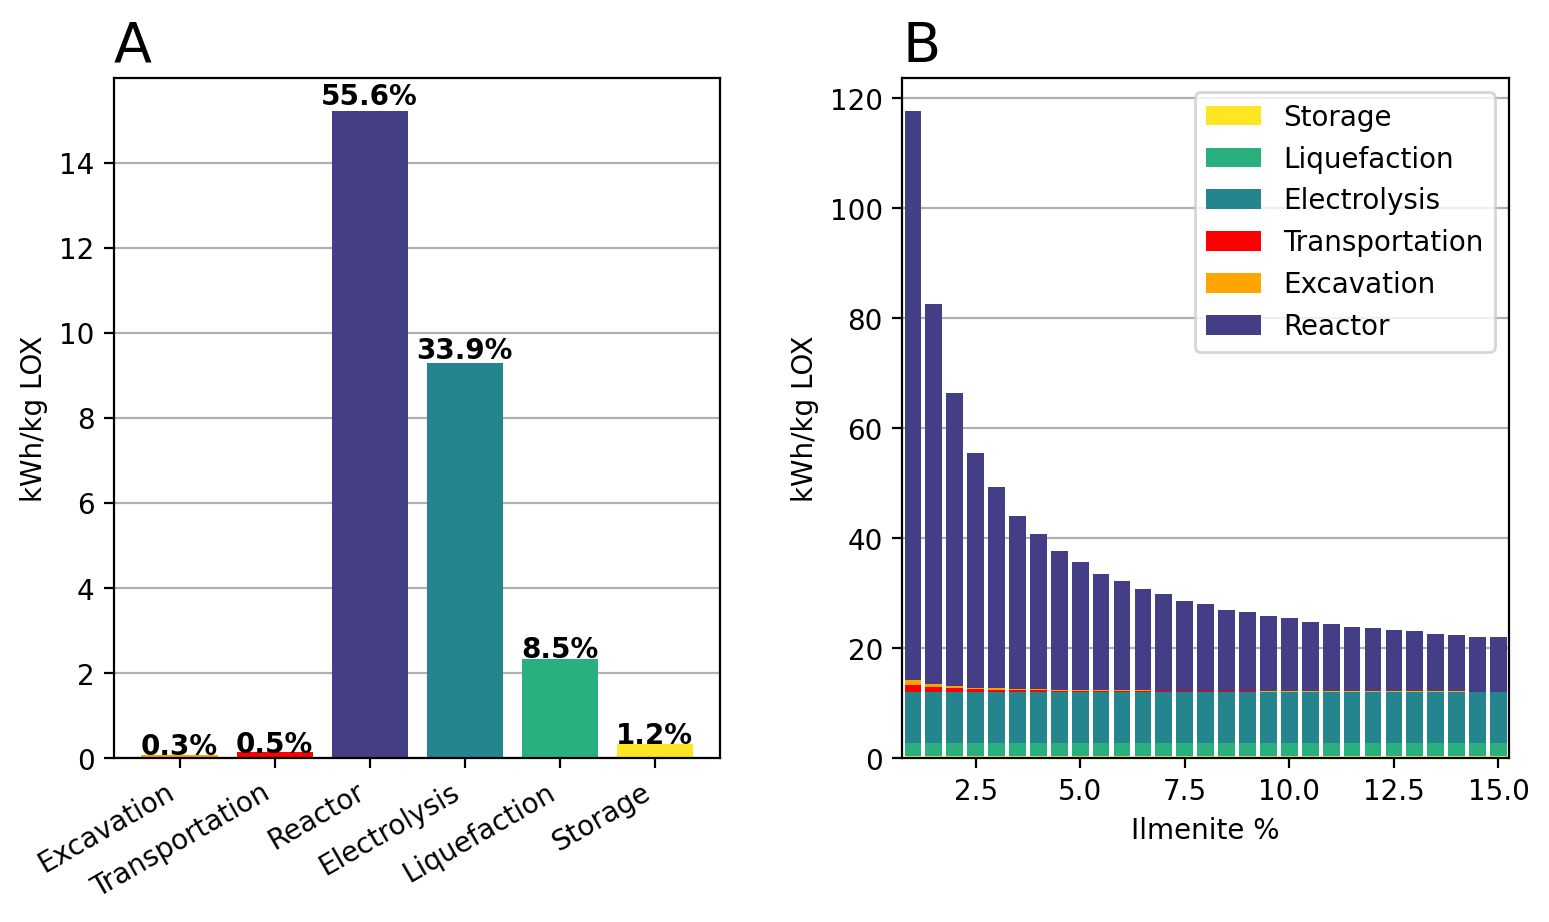
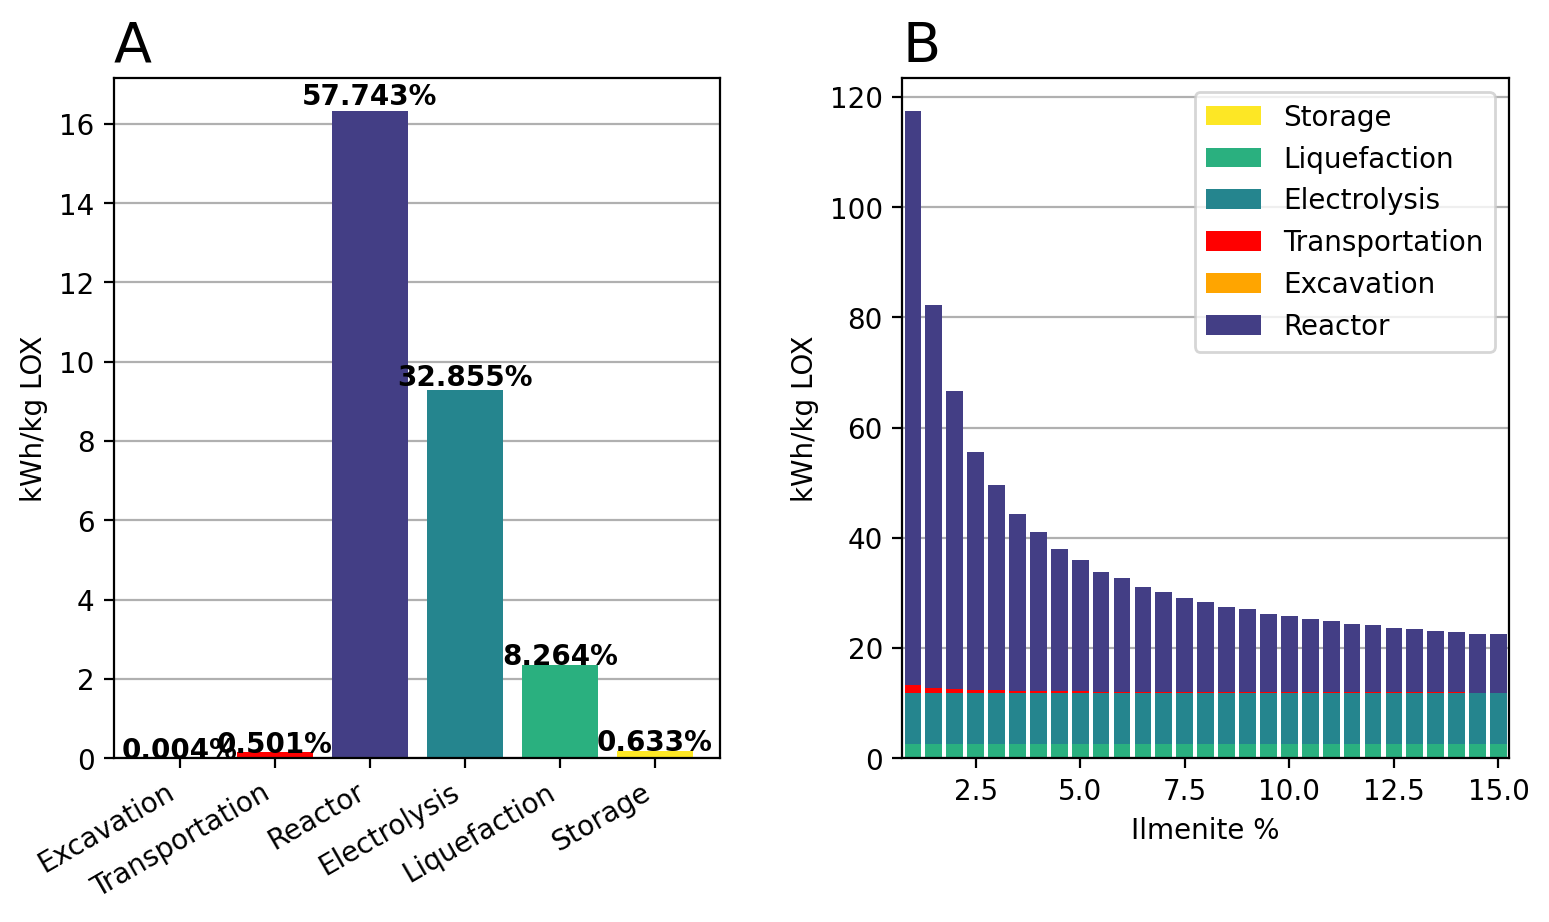
excavation changed from mpmath to Math

diff --git a/excavation.py b/excavation.py
@@ -6,7 +6,6 @@ Testing mod
 
 import numpy as np
 import math as ma
-from mpmath import cot
 
 #Excavation parameters
 depthM = 0.025 # m
@@ -100,11 +99,11 @@ def Balovnev(reg_vars, reg_vars2, exc_vars, exc_vars2):
     ls = r_scoop    # Length of scoop sides
 
     # Balovnev equation
-    dig_force = (w*D*A1*(1 + cot(b)*ma.tan(d))*(D*4*g*gam/2 + c*cot(f) + 
+    dig_force = (w*D*A1*(1 + 1/ma.tan(b)*ma.tan(d))*(D*4*g*gam/2 + c*1/ma.tan(f) + 
         (D - l*ma.sin(b))*g*gam*(1-ma.sin(f))/(1+ma.sin(f))) +
-        w*eb*A2*(1 +ma.tan(d)*cot(ab))*(eb*g*gam/2 + c*cot(f) + D*g*gam*
+        w*eb*A2*(1 +ma.tan(d)*1/ma.tan(ab))*(eb*g*gam/2 + c*1/ma.tan(f) + D*g*gam*
         (1-ma.sin(f))/(1+ma.sin(f))) +
-        D*A3*(2*s + 4*ls*ma.tan(d))*(D*g*gam/2 + c*cot(f) + 
+        D*A3*(2*s + 4*ls*ma.tan(d))*(D*g*gam/2 + c*1/ma.tan(f) + 
         (D - ls*ma.sin(b))*g*gam*(1-ma.sin(f))/(1+ma.sin(f))))
     return dig_force   
 
@@ -120,4 +119,3 @@ def A_prime(x,f,d):
 
 digOutputs = excavationMechanics(depthM, trenchDepthM, radiusM, extAngle, intAngle, cohCoeff)
 Alpha = 2.77778e-7*digOutputs[1]  #kWh/kg
-

diff --git a/H2_R2O2_V1_3.py b/H2_R2O2_V1_3.py
@@ -23,7 +23,6 @@ from beneficiation_placeholder import *
 from transportation import *
 from excavation import *
 
-
 print("start")
 
 'user parameters'
@@ -360,8 +359,9 @@ energy_as_func_of_ilmenite()
 viridis = cm.get_cmap('viridis', 12)
 pastel = sns.color_palette(palette = "muted", as_cmap=True)
 energy = [X_energy_per_kg_LOX,T_energy_per_kg_LOX,R_energy_per_kg_LOX,E_energy_per_kg_LOX,L_energy_per_kg_LOX,S_energy_per_kg_LOX]
+print(energy)
 sum_energy = np.sum(energy)
-labels = np.around(energy/sum_energy*100, 1)
+labels = np.round(energy/sum_energy*100, 3)
 energy_consumers_full = ["Excavation", "Transportation", "Reactor", "Electrolysis", "Liquefaction", "Storage"]
 #colors_bars = ["tab:grey", "black", "tab:red", "tab:green",  "tab:blue", "tab:orange"]
 colors_bars = ["orange", "red", viridis(0.2), viridis(0.45),  viridis(0.6), viridis(0.95)] 
